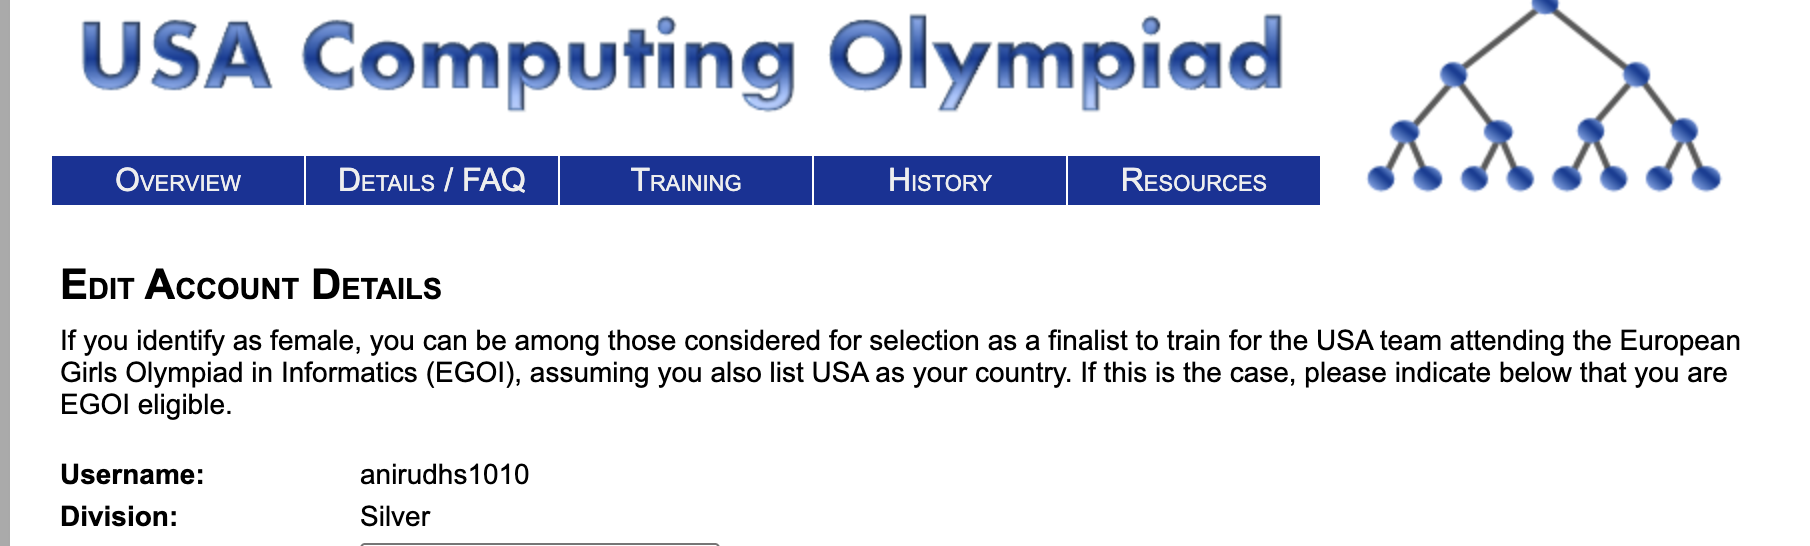
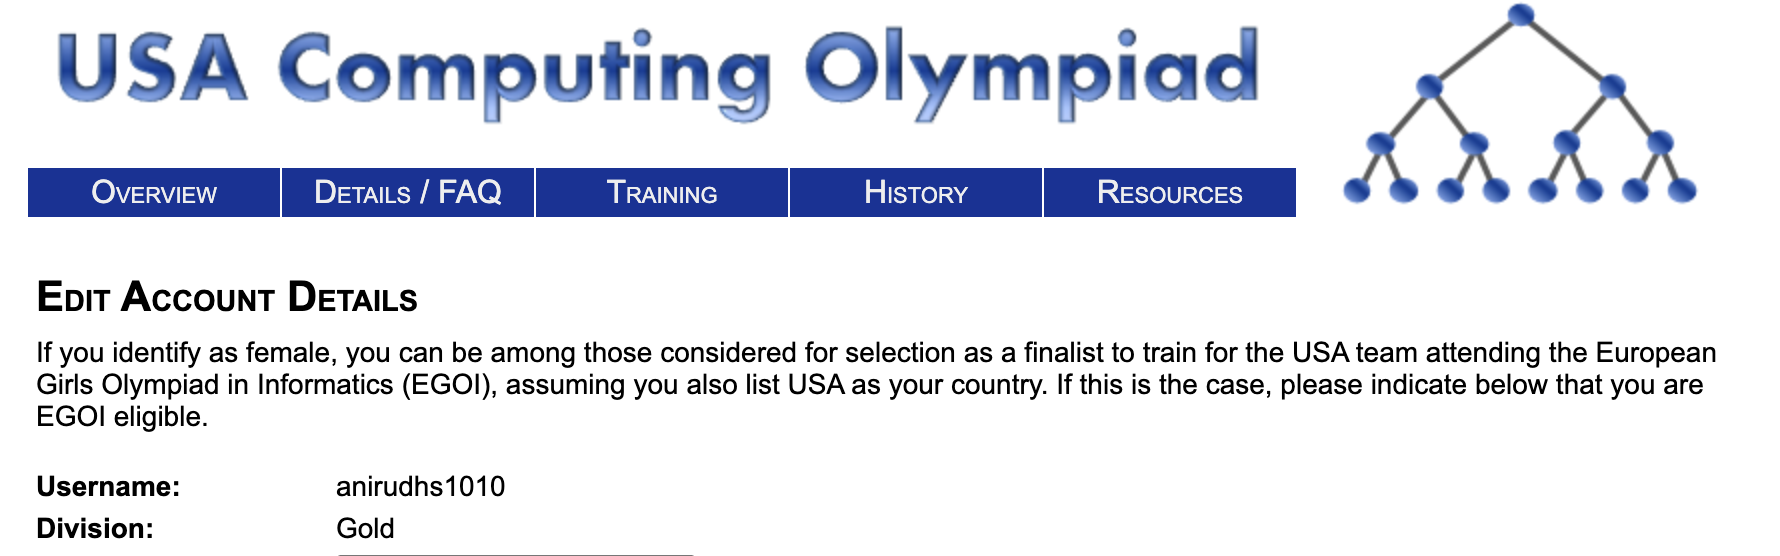
Update USACO Silver to Gold with new image

Changed region(s): [[0.0, 0.0, 0.9888, 1.0], [0.1854, 0.8407, 0.309, 0.9652], [0.1854, 0.9963, 0.4017, 1.0]]

diff --git a/src/app/comp/certificate.js b/src/app/comp/certificate.js
@@ -45,7 +45,7 @@ const certifications = [
     verifyUrl: "/2024-ICPC North Central NA RC-Anirudh Sunil-PLACE.pdf", 
   },
   {
-    title: "USACO Silver",
+    title: "USACO Gold",
     issuer: "USA Computing Olympiad",
     badgeUrl: "/logo-usaco.png",
     verifyUrl: "/usaco.png", 
